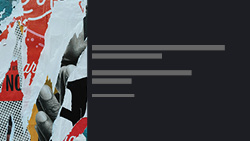
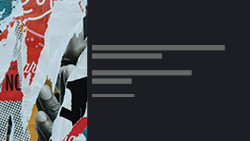
act

diff --git a/prueba_1/publication-web-resources/css/idGeneratedStyles.css b/prueba_1/publication-web-resources/css/idGeneratedStyles.css
@@ -610,22 +610,22 @@ span.CharOverride-15 {
 	width:707.53px;
 }
 #_idContainer004 {
-	-ms-transform:translate(165.000px,406.088px) rotate(0.000deg) skew(0.000deg) scale(1.000,1.000);
+	-ms-transform:translate(165.500px,405.588px) rotate(0.000deg) skew(0.000deg) scale(1.000,1.000);
 	-ms-transform-origin:0% 0%;
-	-webkit-transform:translate(165.000px,406.088px) rotate(0.000deg) skew(0.000deg) scale(1.000,1.000);
+	-webkit-transform:translate(165.500px,405.588px) rotate(0.000deg) skew(0.000deg) scale(1.000,1.000);
 	-webkit-transform-origin:0% 0%;
[2 lines of base64/hex data omitted]
 	background-repeat:no-repeat;
 	background-size:cover;
-	height:260.22px;
+	height:261.22px;
 	left:0px;
 	position:absolute;
 	top:0px;
-	transform:translate(165.000px,406.088px) rotate(0.000deg) skew(0.000deg) scale(1.000,1.000);
-	transform:translate(165.000px,406.088px) rotate(0.000deg) skew(0.000deg) scale(1.000,1.000);
+	transform:translate(165.500px,405.588px) rotate(0.000deg) skew(0.000deg) scale(1.000,1.000);
+	transform:translate(165.500px,405.588px) rotate(0.000deg) skew(0.000deg) scale(1.000,1.000);
 	transform-origin:0% 0%;
 	transform-origin:0% 0%;
-	width:824.13px;
+	width:823.13px;
 }
 #_idContainer005, #_idContainer007, #_idContainer009 {
 	-ms-transform:translate(0.000px,0.000px) rotate(0.000deg) skew(0.000deg) scale(1.000,1.000);
@@ -732,13 +732,13 @@ span.CharOverride-15 {
 	transform-origin:0% 0%;
 	width:1933.50px;
 }
-#_idContainer014, #_idContainer019, #_idContainer026, #_idContainer028, #_idContainer032 {
+#_idContainer014 {
 	-ms-transform:translate(165.000px,77.910px) rotate(0.000deg) skew(0.000deg) scale(1.000,1.000);
 	-ms-transform-origin:0% 0%;
 	-webkit-perspective:1px;
 	-webkit-transform:translate(165.000px,77.910px) rotate(0.000deg) skew(0.000deg) scale(1.000,1.000);
 	-webkit-transform-origin:0% 0%;
[2 lines of base64/hex data omitted]
 	background-repeat:no-repeat;
 	background-size:cover;
 	height:86.86px;
@@ -792,6 +792,25 @@ span.CharOverride-15 {
 	transform-origin:0% 0%;
 	transform-origin:0% 0%;
 	width:798.16px;
+}
+#_idContainer019, #_idContainer026, #_idContainer028, #_idContainer032 {
+	-ms-transform:translate(165.000px,77.910px) rotate(0.000deg) skew(0.000deg) scale(1.000,1.000);
+	-ms-transform-origin:0% 0%;
+	-webkit-perspective:1px;
+	-webkit-transform:translate(165.000px,77.910px) rotate(0.000deg) skew(0.000deg) scale(1.000,1.000);
+	-webkit-transform-origin:0% 0%;
[1 lines of base64/hex data omitted]
+	background-repeat:no-repeat;
+	background-size:cover;
+	height:86.86px;
+	left:0px;
+	position:absolute;
+	top:0px;
+	transform:translate(165.000px,77.910px) rotate(0.000deg) skew(0.000deg) scale(1.000,1.000);
+	transform:translate(165.000px,77.910px) rotate(0.000deg) skew(0.000deg) scale(1.000,1.000);
+	transform-origin:0% 0%;
+	transform-origin:0% 0%;
+	width:475.70px;
 }
 #_idContainer020 {
 	-webkit-perspective:1px;
@@ -940,22 +959,22 @@ span.CharOverride-15 {
 	width:557px;
 }
 #_idContainer036 {
-	-ms-transform:translate(165.000px,386.142px) rotate(0.000deg) skew(0.000deg) scale(1.000,1.000);
+	-ms-transform:translate(165.500px,385.642px) rotate(0.000deg) skew(0.000deg) scale(1.000,1.000);
 	-ms-transform-origin:0% 0%;
-	-webkit-transform:translate(165.000px,386.142px) rotate(0.000deg) skew(0.000deg) scale(1.000,1.000);
+	-webkit-transform:translate(165.500px,385.642px) rotate(0.000deg) skew(0.000deg) scale(1.000,1.000);
 	-webkit-transform-origin:0% 0%;
[2 lines of base64/hex data omitted]
 	background-repeat:no-repeat;
 	background-size:cover;
-	height:260.22px;
+	height:261.22px;
 	left:0px;
 	position:absolute;
 	top:0px;
-	transform:translate(165.000px,386.142px) rotate(0.000deg) skew(0.000deg) scale(1.000,1.000);
-	transform:translate(165.000px,386.142px) rotate(0.000deg) skew(0.000deg) scale(1.000,1.000);
+	transform:translate(165.500px,385.642px) rotate(0.000deg) skew(0.000deg) scale(1.000,1.000);
+	transform:translate(165.500px,385.642px) rotate(0.000deg) skew(0.000deg) scale(1.000,1.000);
 	transform-origin:0% 0%;
 	transform-origin:0% 0%;
-	width:824.13px;
+	width:823.13px;
 }
 #_idContainer037 {
 	-ms-transform:translate(0.000px,0.000px) rotate(0.000deg) skew(0.000deg) scale(1.000,1.000);
@@ -1063,22 +1082,22 @@ span.CharOverride-15 {
 	width:453.57px;
 }
 #_idContainer045 {
-	-ms-transform:translate(165.000px,386.142px) rotate(0.000deg) skew(0.000deg) scale(1.000,1.000);
+	-ms-transform:translate(165.500px,385.642px) rotate(0.000deg) skew(0.000deg) scale(1.000,1.000);
 	-ms-transform-origin:0% 0%;
-	-webkit-transform:translate(165.000px,386.142px) rotate(0.000deg) skew(0.000deg) scale(1.000,1.000);
+	-webkit-transform:translate(165.500px,385.642px) rotate(0.000deg) skew(0.000deg) scale(1.000,1.000);
 	-webkit-transform-origin:0% 0%;
[2 lines of base64/hex data omitted]
 	background-repeat:no-repeat;
 	background-size:cover;
-	height:260.22px;
+	height:261.22px;
 	left:0px;
 	position:absolute;
 	top:0px;
-	transform:translate(165.000px,386.142px) rotate(0.000deg) skew(0.000deg) scale(1.000,1.000);
-	transform:translate(165.000px,386.142px) rotate(0.000deg) skew(0.000deg) scale(1.000,1.000);
+	transform:translate(165.500px,385.642px) rotate(0.000deg) skew(0.000deg) scale(1.000,1.000);
+	transform:translate(165.500px,385.642px) rotate(0.000deg) skew(0.000deg) scale(1.000,1.000);
 	transform-origin:0% 0%;
 	transform-origin:0% 0%;
-	width:691.66px;
+	width:690.66px;
 }
 #_idContainer046 {
 	-ms-transform:translate(1032.111px,0.749px) rotate(0.000deg) skew(0.000deg) scale(1.000,1.000);

diff --git a/prueba_1/publication-web-resources/html/publication-9.html b/prueba_1/publication-web-resources/html/publication-9.html
@@ -14,7 +14,7 @@
[1 lines of base64/hex data omitted]
 		</div>
 		<div id="_idContainer045" class="Marco-de-texto-b-sico">
-			<div style="width:0px;height:0px;position:absolute;top:0px;left:0px;-webkit-transform-origin: 0% 0%; -webkit-transform: translate(1px,8.6px) rotate(0deg) scale(1);transform-origin: 0% 0%; transform: translate(1px,8.6px) rotate(0deg) scale(1);">
+			<div style="width:0px;height:0px;position:absolute;top:0px;left:0px;-webkit-transform-origin: 0% 0%; -webkit-transform: translate(0px,8.6px) rotate(0deg) scale(1);transform-origin: 0% 0%; transform: translate(0px,8.6px) rotate(0deg) scale(1);">
 				<p class="P-rrafo-b-sico ParaOverride-1"><span id="_idTextSpan279" class="Hiperv-nculo CharOverride-3" style="position:absolute;top:7.71px;left:0px;letter-spacing:0.06px;">Unidad </span><span id="_idTextSpan280" class="Hiperv-nculo CharOverride-3" style="position:absolute;top:7.71px;left:286.52px;letter-spacing:0px;">5: </span></p>
 				<p class="P-rrafo-b-sico ParaOverride-1"><span id="_idTextSpan281" class="Hiperv-nculo CharOverride-4" style="position:absolute;top:84.72px;left:0px;letter-spacing:-0.18px;">Parentesco </span><span id="_idTextSpan282" class="Hiperv-nculo CharOverride-4" style="position:absolute;top:84.72px;left:260.79px;letter-spacing:0px;">y </span><span id="_idTextSpan283" class="Hiperv-nculo CharOverride-4" style="position:absolute;top:84.72px;left:297.97px;letter-spacing:-0.05px;">familia </span><span id="_idTextSpan284" class="Hiperv-nculo CharOverride-4" style="position:absolute;top:84.72px;left:460.27px;letter-spacing:0px;">en </span><span id="_idTextSpan285" class="Hiperv-nculo CharOverride-4" style="position:absolute;top:84.72px;left:528px;letter-spacing:0px;">las </span><span id="_idTextSpan286" class="Hiperv-nculo CharOverride-4" style="position:absolute;top:84.72px;left:601.09px;letter-spacing:0.14px;">so-</span><span id="_idTextSpan287" class="Hiperv-nculo CharOverride-4" style="position:absolute;top:137.52px;left:0px;letter-spacing:0.03px;">ciedades </span><span id="_idTextSpan288" class="Hiperv-nculo CharOverride-4" style="position:absolute;top:137.52px;left:209.94px;letter-spacing:-0.12px;">contemporáneas</span></p>
 			</div>

diff --git a/prueba_1/index.html b/prueba_1/index.html
@@ -1,107 +1,15 @@
 <!DOCTYPE html>
-<html lang="es">
-<head>
-<meta charset="utf-8"/>
-<meta name="viewport" content="width=device-width, initial-scale=1"/>
-
-<link href="publication-web-resources/css/main.css" rel="stylesheet">
-<script src="publication-web-resources/script/main.js"></script>
-
-<style>
-html, body {
-  height:100%;
-  margin:0;
-  overflow:hidden;
-  background:#111;
-}
-
-/* pantalla */
-#viewport{
-  position:fixed;
-  inset:0;
-  display:grid;
-  place-items:center;
-}
-
-/* stage escalable */
-#stage{
-  width:var(--w);
-  height:var(--h);
-  transform-origin:top left;
-  transform:scale(var(--s));
-}
-
-/* iframe */
-#contentIFrame{
-  width:var(--w);
-  height:var(--h);
-  border:0;
-  display:block;
-}
-
-/* BOTONES */
-.prev, .next{
-  position:fixed;
-  top:50%;
-  transform:translateY(-50%);
-  z-index:9999;
-  font-size:60px;
-  cursor:pointer;
-  color:white;
-  padding:10px 18px;
-  background:rgba(0,0,0,0.3);
-  border-radius:10px;
-  user-select:none;
-}
-
-.prev{ left:10px; }
-.next{ right:10px; }
-</style>
-</head>
-
-<body onload="showHideArrows()">
-
-<div id="viewport">
-  <div id="stage">
-    <iframe 
-      id="contentIFrame"
-      src="publication-web-resources/html/publication.html">
-    </iframe>
-  </div>
-</div>
-
-<div class="prev" onclick="showPreviousPage()">&#10094;</div>
-<div class="next" onclick="showNextPage()">&#10095;</div>
-
-<script>
-const BASE_W = 1920;
-
-function fit(){
-  const iframe = document.getElementById('contentIFrame');
-  const stage  = document.getElementById('stage');
-
-  let h = 1080;
-
-  try{
-    const doc = iframe.contentDocument || iframe.contentWindow.document;
-    const body = doc.body;
-    const html = doc.documentElement;
-    h = Math.max(
-      body.scrollHeight, body.offsetHeight,
-      html.clientHeight, html.scrollHeight, html.offsetHeight
-    );
-  }catch(e){}
-
-  stage.style.setProperty('--w', BASE_W+'px');
-  stage.style.setProperty('--h', h+'px');
-
-  const s = Math.min(window.innerWidth/BASE_W, window.innerHeight/h);
-  stage.style.setProperty('--s', s);
-}
-
-window.addEventListener('resize', fit);
-document.getElementById('contentIFrame').addEventListener('load', fit);
-</script>
-
-</body>
+<html>
+	<head>
+		<link href="publication-web-resources/css/main.css" rel="stylesheet" type="text/css">
+		</link>
+		<script src="publication-web-resources/script/main.js" type="text/javascript">
+		</script>
+	</head>
+	<body onload="showHideArrows()">
+		<iframe onload="showHideArrows()" id="contentIFrame" class="contentIframeClass" src="publication-web-resources/html/publication.html">		</iframe>
+		<iframe id="dummyIFrame" class="dummyFrameClass">		</iframe>
+		<div class="prev" onclick="showPreviousPage()">		&#10094;		</div>
+		<div class="next" onclick="showNextPage()">		&#10095;		</div>
+	</body>
 </html>

diff --git a/prueba_1/publication-web-resources/html/publication-7.html b/prueba_1/publication-web-resources/html/publication-7.html
@@ -11,7 +11,7 @@
 			<img class="_idGenObjectAttribute-1 _idGenObjectAttribute-2" src="../image/1.png" alt="" />
 		</div>
 		<div id="_idContainer036" class="Marco-de-texto-b-sico">
-			<div style="width:0px;height:0px;position:absolute;top:0px;left:0px;-webkit-transform-origin: 0% 0%; -webkit-transform: translate(1px,8.6px) rotate(0deg) scale(1);transform-origin: 0% 0%; transform: translate(1px,8.6px) rotate(0deg) scale(1);">
+			<div style="width:0px;height:0px;position:absolute;top:0px;left:0px;-webkit-transform-origin: 0% 0%; -webkit-transform: translate(0px,8.6px) rotate(0deg) scale(1);transform-origin: 0% 0%; transform: translate(0px,8.6px) rotate(0deg) scale(1);">
 				<p class="P-rrafo-b-sico ParaOverride-1"><span id="_idTextSpan216" class="Hiperv-nculo CharOverride-3" style="position:absolute;top:7.71px;left:0px;letter-spacing:0.06px;">Unidad </span><span id="_idTextSpan217" class="Hiperv-nculo CharOverride-3" style="position:absolute;top:7.71px;left:286.52px;letter-spacing:0.19px;">4: </span></p>
 				<p class="P-rrafo-b-sico ParaOverride-1"><span id="_idTextSpan218" class="Hiperv-nculo CharOverride-4" style="position:absolute;top:84.72px;left:0px;letter-spacing:0.06px;">Las </span><span id="_idTextSpan219" class="Hiperv-nculo CharOverride-4" style="position:absolute;top:84.72px;left:86.13px;letter-spacing:0.01px;">relaciones </span><span id="_idTextSpan220" class="Hiperv-nculo CharOverride-4" style="position:absolute;top:84.72px;left:325.23px;letter-spacing:0px;">de </span><span id="_idTextSpan221" class="Hiperv-nculo CharOverride-4" style="position:absolute;top:84.72px;left:393px;letter-spacing:-0.16px;">parentesco </span><span id="_idTextSpan222" class="Hiperv-nculo CharOverride-4" style="position:absolute;top:84.72px;left:652.28px;letter-spacing:0px;">y </span><span id="_idTextSpan223" class="Hiperv-nculo CharOverride-4" style="position:absolute;top:84.72px;left:689.46px;letter-spacing:0px;">la </span><span id="_idTextSpan224" class="Hiperv-nculo CharOverride-4" style="position:absolute;top:84.72px;left:740.14px;letter-spacing:-0.14px;">fa-</span><span id="_idTextSpan225" class="Hiperv-nculo CharOverride-4" style="position:absolute;top:137.52px;left:0px;">milia </span><span id="_idTextSpan226" class="Hiperv-nculo CharOverride-4" style="position:absolute;top:137.52px;left:120.35px;">en </span><span id="_idTextSpan227" class="Hiperv-nculo CharOverride-4" style="position:absolute;top:137.52px;left:188.08px;">la </span><span id="_idTextSpan228" class="Hiperv-nculo CharOverride-4" style="position:absolute;top:137.52px;left:238.76px;letter-spacing:-0.03px;">antropología </span><span id="_idTextSpan229" class="Hiperv-nculo CharOverride-4" style="position:absolute;top:137.52px;left:535.09px;letter-spacing:-0.02px;">clásica</span></p>
 			</div>

diff --git a/prueba_1/publication-web-resources/html/publication-1.html b/prueba_1/publication-web-resources/html/publication-1.html
@@ -11,7 +11,7 @@
 			<img class="_idGenObjectAttribute-1 _idGenObjectAttribute-2" src="../image/1.png" alt="" />
 		</div>
 		<div id="_idContainer004" class="Marco-de-texto-b-sico">
-			<div style="width:0px;height:0px;position:absolute;top:0px;left:0px;-webkit-transform-origin: 0% 0%; -webkit-transform: translate(1px,8.6px) rotate(0deg) scale(1);transform-origin: 0% 0%; transform: translate(1px,8.6px) rotate(0deg) scale(1);">
+			<div style="width:0px;height:0px;position:absolute;top:0px;left:0px;-webkit-transform-origin: 0% 0%; -webkit-transform: translate(0px,8.6px) rotate(0deg) scale(1);transform-origin: 0% 0%; transform: translate(0px,8.6px) rotate(0deg) scale(1);">
 				<p class="P-rrafo-b-sico ParaOverride-1"><span id="_idTextSpan016" class="Hiperv-nculo CharOverride-3" style="position:absolute;top:7.71px;left:0px;letter-spacing:0.06px;">Unidad </span><span id="_idTextSpan017" class="Hiperv-nculo CharOverride-3" style="position:absolute;top:7.71px;left:286.52px;letter-spacing:0px;">3: </span></p>
 				<p class="P-rrafo-b-sico ParaOverride-1"><span id="_idTextSpan018" class="Hiperv-nculo CharOverride-4" style="position:absolute;top:84.72px;left:0px;letter-spacing:0.25px;">Etnografías </span><span id="_idTextSpan019" class="Hiperv-nculo CharOverride-4" style="position:absolute;top:84.72px;left:269.7px;letter-spacing:0px;">de </span><span id="_idTextSpan020" class="Hiperv-nculo CharOverride-4" style="position:absolute;top:84.72px;left:337.47px;">las </span><span id="_idTextSpan021" class="Hiperv-nculo CharOverride-4" style="position:absolute;top:84.72px;left:410.56px;letter-spacing:0.02px;">“sociedades </span><span id="_idTextSpan022" class="Hiperv-nculo CharOverride-4" style="position:absolute;top:84.72px;left:691.56px;letter-spacing:0px;">sin </span><span id="_idTextSpan023" class="Hiperv-nculo CharOverride-4" style="position:absolute;top:137.52px;left:0px;letter-spacing:0.02px;">Estado”</span></p>
 			</div>

diff --git a/prueba_1/publication-web-resources/html/publication-2.html b/prueba_1/publication-web-resources/html/publication-2.html
@@ -12,7 +12,7 @@
 		</div>
 		<div id="_idContainer014" class="Marco-de-texto-b-sico">
 			<div style="width:0px;height:0px;position:absolute;top:0px;left:0px;-webkit-transform-origin: 0% 0%; -webkit-transform: translate(0px,9.09px) rotate(0deg) scale(1);transform-origin: 0% 0%; transform: translate(0px,9.09px) rotate(0deg) scale(1);">
-				<p class="P-rrafo-b-sico ParaOverride-1"><a target="_blank" href="publication-1.html"><span id="_idTextSpan024" class="Hiperv-nculo CharOverride-5" style="position:absolute;top:6.68px;left:0px;letter-spacing:0.05px;">Unidad </span></a><span id="_idTextSpan025" class="Hiperv-nculo CharOverride-5" style="position:absolute;top:6.68px;left:248.27px;">3</span></p>
+				<p class="P-rrafo-b-sico ParaOverride-1"><a target="_blank" href="publication-1.html"><span id="_idTextSpan024" class="CharOverride-5" style="position:absolute;top:6.68px;left:0px;letter-spacing:0.05px;">Unidad </span></a><span id="_idTextSpan025" class="Hiperv-nculo CharOverride-5" style="position:absolute;top:6.68px;left:248.27px;">3</span></p>
 			</div>
 		</div>
 		<div id="_idContainer015" class="_idGenAnimation Marco-de-texto-b-sico _idGenAnimationStart-1 _idGenStateHide" data-animationOnPageLoadActions="playAnimation(selfContainerID,&apos;_idGenPlayAnimation-1&apos;,0.000,&apos;&apos;);" data-idGenAnimationStartState="_idGenAnimationStart-1" data-idGenAnimationEndState="_idGenAnimationEnd-1">
